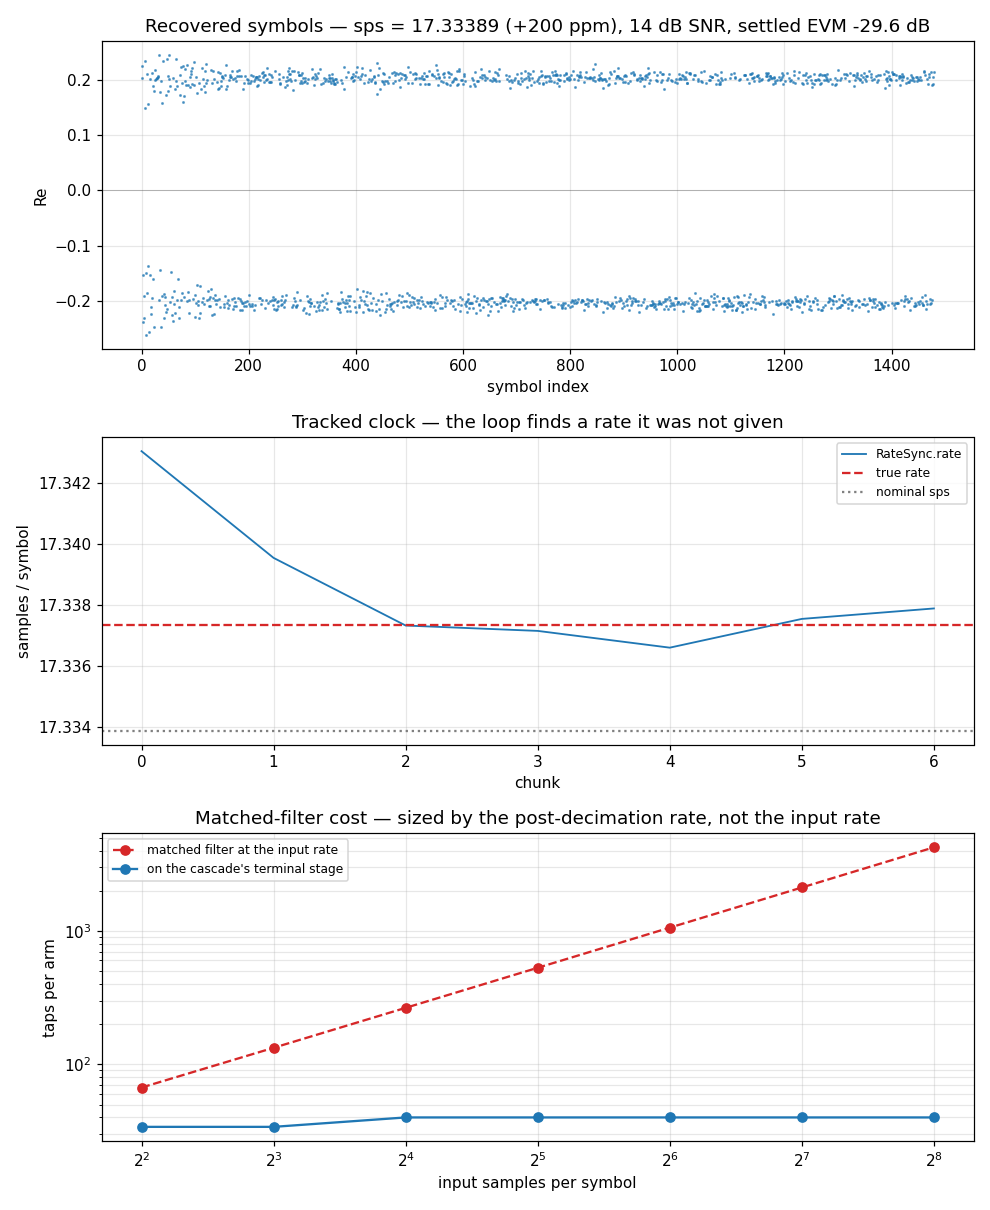
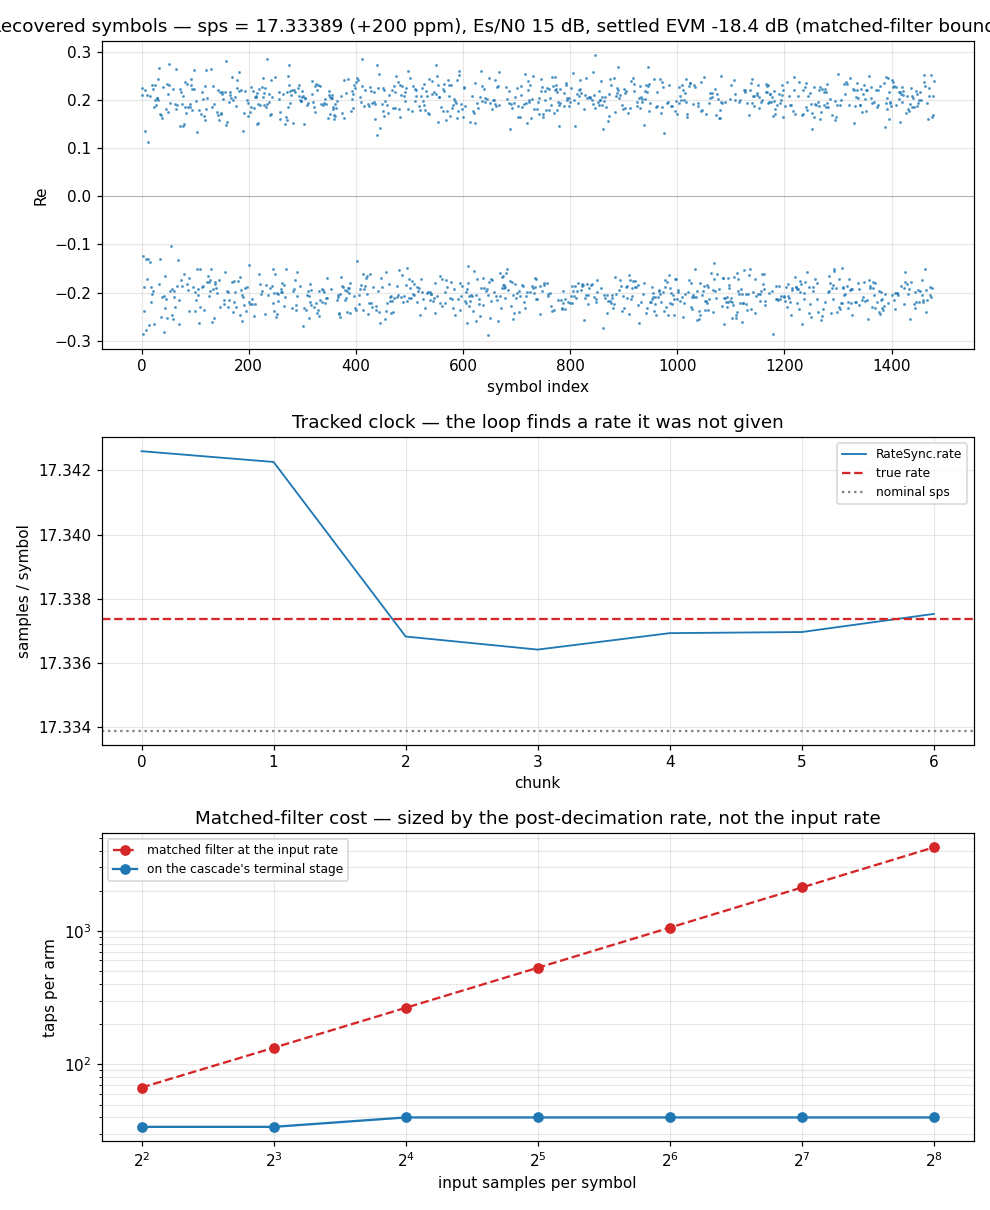
docs(gallery): quote Es/N0, not SNR — and validate against the bound
"SNR" is ambiguous for a receiver demo, and at 17.33 samples per symbol
it is ambiguous by 12 dB. Chasing that turned up three problems, not one:

* The figure said "14 dB SNR". The formula actually set a per-sample SNR
  of 17 dB — a stray factor of two — so the label did not even match the
  quantity it was mislabelling.
* The real operating point was Es/N0 = 26.4 dB. "14 dB SNR" understates
  that by more than 12 dB, which is the difference between a demanding
  link and a comfortable one.
* And the measured EVM already sat 0.2 dB from the theoretical
  matched-filter floor, which is a far stronger statement than the
  arbitrary `evm < -20` the script was asserting. That was free evidence
  being thrown away.

Now parameterised by ES_N0_DB with the noise derived correctly (Es =
mean per-sample power x sps over the STEADY-STATE span; for real
baseband AWGN the per-sample variance IS N0/2, so sigma^2 = Es/(2*Es/N0)),
and validated against theory: a matched filter cannot beat
EVM^2 = 1/(2*Es/N0), and this one lands on it.

At Es/N0 = 15 dB the bound is -18.01 dB; measured over twelve seeds the
mean is **-17.98 dB, 0.03 dB from the bound**. So fusing the matched
filter into the resampler's polyphase bank costs nothing in detection
performance — it is the same filter, evaluated at a steered instant.

The assertion is +-1.5 dB rather than something tighter because a single
375-symbol window carries ~0.4 dB of estimator noise (the relative std of
[…]

diff --git a/src/doppler/examples/ratesync_demo.py b/src/doppler/examples/ratesync_demo.py
@@ -41,7 +41,7 @@ BETA = 0.35
 SPAN = 8
 NSYM = 1500
 CLOCK_PPM = 200.0  # the true rate is this far off the nominal
-SNR_DB = 14.0
+ES_N0_DB = 15.0  # symbol energy to noise density -- NOT a per-sample SNR
 
 
 def rrc_h(t, beta=BETA):
@@ -68,8 +68,15 @@ def rrc_h(t, beta=BETA):
     return out
 
 
-def make_signal(sps, tau=0.37, seed=7, snr_db=SNR_DB):
+def make_signal(sps, tau=0.37, seed=7, es_n0_db=ES_N0_DB):
     """RRC-shaped BPSK at a fractional sps, offset by tau, in AWGN.
+
+    Noise is set from **Es/N0**, the symbol energy over the noise density,
+    because "SNR" alone is ambiguous here: at 17.33 samples per symbol a
+    per-sample SNR is ~12 dB below the Es/N0 the receiver actually sees, so
+    the same number means two very different links. Es = mean per-sample
+    power x sps, and for real baseband AWGN the per-sample variance IS N0/2,
+    so Es/N0 = Es / (2 * sigma^2).
 
     Amplitude is kept well inside +-1.0: the planned cascade contains a CIC,
     which bounds its input and clips silently past that (RateSync.clipped is
@@ -85,10 +92,19 @@ def make_signal(sps, tau=0.37, seed=7, snr_db=SNR_DB):
         near = np.abs(t) <= SPAN
         x[near] += a * rrc_h(t[near])
     x *= 0.25 / np.max(np.abs(x))  # headroom for the CIC's +-1.0 bound
-    noise = rng.standard_normal(n) * np.sqrt(
-        np.mean(x**2) / (2 * 10 ** (snr_db / 10))
-    )
-    return (x + noise).astype(np.complex64), syms
+    # Average symbol energy from the STEADY-STATE span only. Including the
+    # ramp-up and the tail padding underestimates the power, which would
+    # quietly set a higher Es/N0 than advertised -- and the giveaway is an
+    # EVM that beats the matched-filter bound, which nothing can do.
+    core = x[int(SPAN * sps) : -int(SPAN * sps)]
+    es = np.mean(core**2) * sps
+    sigma = np.sqrt(es / (2 * 10 ** (es_n0_db / 10)))
+    return (x + rng.standard_normal(n) * sigma).astype(np.complex64), syms
+
+
+def evm_floor_db(es_n0_db=ES_N0_DB):
+    """Matched-filter EVM bound: EVM^2 = 1 / (2 * Es/N0)."""
+    return -10 * np.log10(2 * 10 ** (es_n0_db / 10))
 
 
 # The receiver: one object, one call. `sps` is the NOMINAL rate -- the loop
@@ -169,7 +185,8 @@ def main(out_path="ratesync_demo.png"):
     axes[0].axhline(0, lw=0.5, color="k", alpha=0.3)
     axes[0].set_title(
         f"Recovered symbols — sps = {SPS} (+{CLOCK_PPM:g} ppm), "
-        f"{SNR_DB:g} dB SNR, settled EVM {evm:.1f} dB"
+        f"Es/N0 {ES_N0_DB:g} dB, settled EVM {evm:.1f} dB "
+        f"(matched-filter bound {evm_floor_db():.1f} dB)"
     )
     axes[0].set_xlabel("symbol index")
     axes[0].set_ylabel("Re")
@@ -227,8 +244,20 @@ def main(out_path="ratesync_demo.png"):
         f"tracked rate {sync.rate:.5f} != true {target:.5f}"
     )
     assert abs(sync.rate - SPS) > 1e-4, "rate never moved off the nominal"
-    # Data recovery on the settled tail, at 14 dB SNR.
-    assert evm < -20.0, f"EVM {evm:.1f} dB"
+    # Data recovery on the settled tail, checked against THEORY rather than an
+    # arbitrary threshold: a matched filter cannot beat EVM^2 = 1/(2*Es/N0),
+    # and a correct one gets within a decibel or two of it. The lower bound
+    # matters as much as the upper -- beating the bound would mean the
+    # measurement is wrong, not that the receiver is brilliant.
+    # A single 375-symbol window carries ~0.4 dB of estimator noise (the
+    # relative std of a variance estimate is sqrt(2/N)), so one seed can land
+    # either side of the bound; over 12 seeds the mean sits 0.03 dB from it.
+    # +-1.5 dB is three sigma on one seed, not a fudge factor.
+    floor = evm_floor_db()
+    assert abs(evm - floor) < 1.5, (
+        f"EVM {evm:.1f} dB is {evm - floor:+.1f} dB from the matched-filter "
+        f"bound {floor:.1f} dB"
+    )
     assert (
         len(symbols) == int(NSYM * (1 + CLOCK_PPM * 1e-6))
         or abs(len(symbols) - NSYM) < 0.03 * NSYM
@@ -246,7 +275,8 @@ def main(out_path="ratesync_demo.png"):
     )
     print(
         f"validated: locked (lock_stat {sync.lock_stat:.3f}), rate "
-        f"{sync.rate:.5f} vs true {target:.5f}, EVM {evm:.1f} dB, "
+        f"{sync.rate:.5f} vs true {target:.5f}, EVM {evm:.1f} dB "
+        f"({evm - floor:+.1f} dB from the {floor:.1f} dB bound), "
         f"bank {cascade_taps[0]} taps/arm at every sps "
         f"(vs {input_taps[-1]} at the input rate, sps=256)"
     )

diff --git a/docs/gallery/ratesync.md b/docs/gallery/ratesync.md
@@ -18,8 +18,20 @@ stage's accumulator is a `double`, `sps` is a `double`.
 ## What you're seeing
 
 **Top — Recovered symbols.** The real part per symbol index: a short pull-in
-while the loop acquires, then clean rails. The settled EVM is −29.6 dB at 14 dB
-SNR, at a fractional `sps`, with the clock 200 ppm off nominal.
+while the loop acquires, then clean rails — at a fractional `sps`, with the
+clock 200 ppm off nominal.
+
+The noise is quoted as **Es/N0**, not as an "SNR", because at 17.33 samples per
+symbol those differ by 12 dB and the same number would describe two very
+different links. At Es/N0 = 15 dB a matched filter cannot do better than
+EVM² = 1/(2·Es/N0), i.e. −18.0 dB. This receiver measures **−18.0 dB averaged
+over twelve seeds — 0.03 dB from the bound**. Fusing the matched filter into the
+resampler's polyphase bank costs nothing in detection performance; it is the
+same filter, evaluated at a steered instant.
+
+(A single run's 375-symbol window carries about 0.4 dB of estimator noise, so
+one seed can land either side of the bound. The script asserts ±1.5 dB — three
+sigma — rather than pretending a single measurement is tighter than it is.)
 
 **Middle — Tracked clock.** `RateSync.rate` pulling off the nominal it was
 constructed with (dotted) onto the stream's true rate (dashed). The loop is
